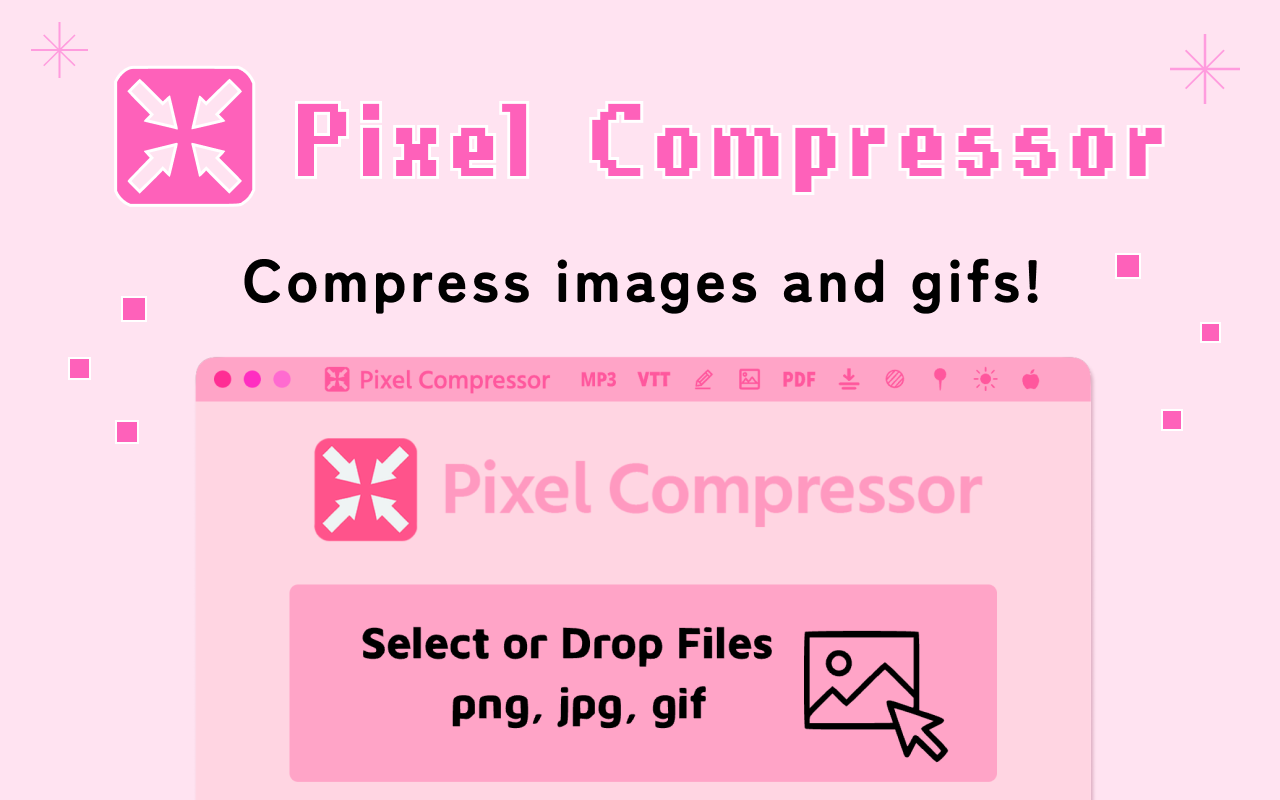
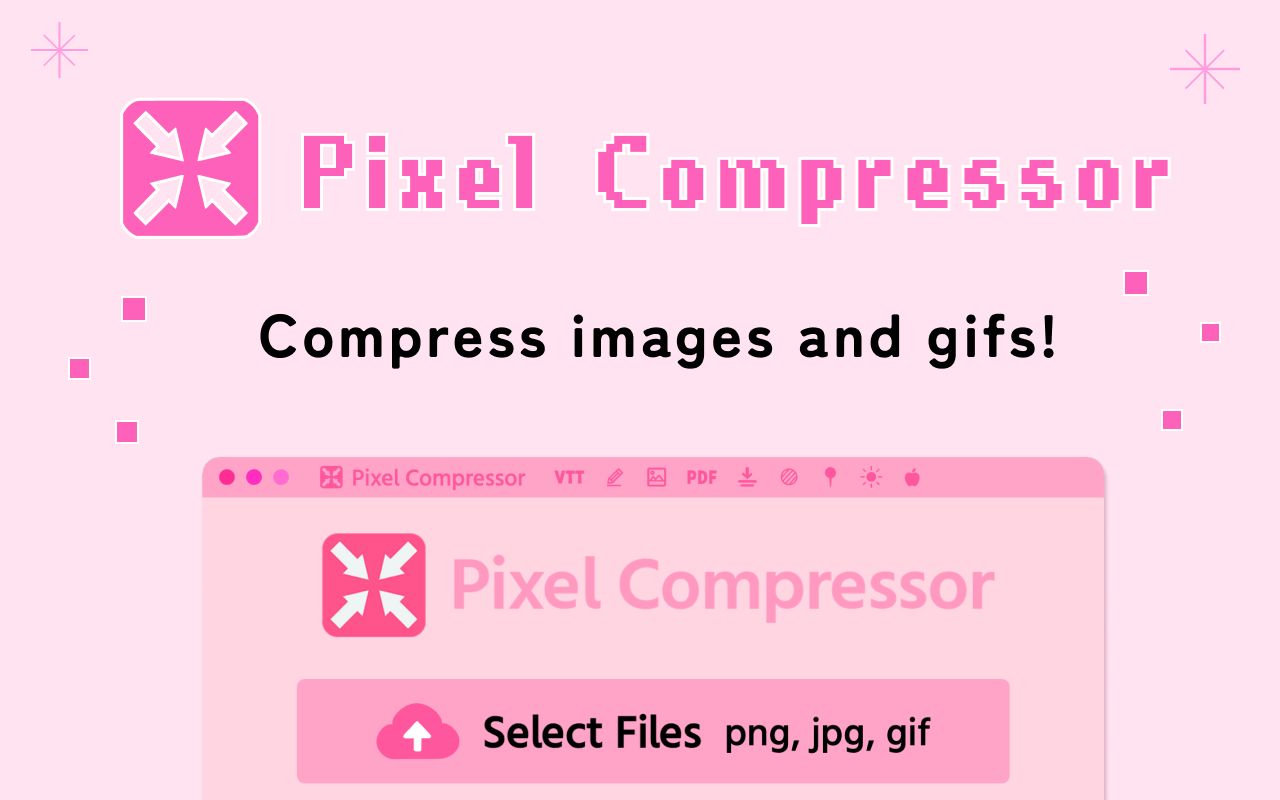
style adjustments

Changed region(s): [[0.0625, 0.0625, 0.9375, 0.5], [0.1562, 0.5312, 0.875, 0.9688], [0.8438, 0.3125, 0.9062, 0.375]]

diff --git a/components/FileSelector.tsx b/components/FileSelector.tsx
@@ -5,8 +5,7 @@
  * * * * * * * * * * * * * * * * * * * * * * * * * * * * * * */
 
 import React, {useEffect, useEffectEvent, useState} from "react"
-import FileSelectorIcon from "../assets/svg/file-selector.svg"
-import FileSelectorDragIcon from "../assets/svg/file-selector-drag.svg"
+import CloudIcon from "../assets/svg/cloud.svg"
 import functions from "../structures/functions"
 import "./styles/fileselector.less"
 
@@ -79,9 +78,9 @@ const FileSelector: React.FunctionComponent = (props) => {
     return (
         <section className="file-selector" onDrop={drop} onDragOver={dragOver} onDragLeave={dragLeave}>
             <div className="file-selector-img">
-                {drag ?
-                <FileSelectorDragIcon className="file-selector-img-text" style={{filter: hover ? "brightness(0) invert(1)" : ""}}/> :
-                <FileSelectorIcon className="file-selector-img-text" style={{filter: hover ? "brightness(0) invert(1)" : ""}}/>}
+                <CloudIcon className="file-selector-cloud"/>
+                <span className="file-selector-title" style={{color: hover || drag ? "white" : ""}}>Select Files</span>
+                <span className="file-selector-text" style={{color: hover || drag ? "white" : ""}}>png, jpg, gif</span>
             </div>
             <div className="file-selector-hover" onClick={upload} onMouseEnter={() => setHover(true)} onMouseLeave={() => setHover(false)}></div>
         </section>

diff --git a/components/styles/fileselector.less b/components/styles/fileselector.less
@@ -13,10 +13,21 @@
     justify-content: center;
     margin-bottom: 10px;
     width: 100%;
-    height: 22vw;
     &:focus {
         outline: none;
     }
+}
+
+.file-selector-hover {
+    margin: auto;
+    position: absolute;
+    z-index: 100;
+    top: 0; 
+    bottom: 0; 
+    left: 0; 
+    right: 0;
+    height: 95%;
+    width: 78%;
 }
 
 .file-selector-img {
@@ -29,25 +40,27 @@
     width: 79%;
     height: auto;
     border-radius: 7px;
+    gap: 20px;
+    padding: 20px;
 }
 
-.file-selector-img-text {
+.file-selector-cloud {
+    color: var(--iconColor);
+    width: auto;
+    height: 50px;
+}
+
+.file-selector-title {
     color: var(--textColor2);
-    transition: filter 0.3s;
-    position: absolute;
-    width: 100%;
-    height: auto;
-    z-index: 50;
+    font-family: "GenEi M Gothic v2";
+    font-weight: bold;
+    font-size: 35px;
+    transition: color 0.3s;
 }
 
-.file-selector-hover {
-    margin: auto;
-    position: absolute;
-    z-index: 100;
-    top: 0; 
-    bottom: 0; 
-    left: 0; 
-    right: 0;
-    height: 70%;
-    width: 65%;
+.file-selector-text {
+    color: var(--textColor2);
+    font-family: "GenEi M Gothic v2";
+    font-size: 30px;
+    transition: color 0.3s;
 }

diff --git a/components/OptionsBar.tsx b/components/OptionsBar.tsx
@@ -69,15 +69,15 @@ const OptionsBar: React.FunctionComponent = () => {
         <section className="options-bar-container">
             <div className="options-bar">
                 <div className="options-bar-row">
-                    <div className="options-bar-box">
+                    <div className="options-bar-box" style={{width: "92%"}}>
                         <p className="options-bar-text">Quality:</p>
                         <Slider className="options-slider" onChange={(value) => setQuality(value as number)} min={1} max={100} step={1} value={quality}/>
                         <p className="options-bar-text" style={{width: "50px"}}>{quality}%</p>
                     </div>
-                    <div className="options-bar-box">
+                    {/*<div className="options-bar-box">
                         <p className="options-bar-text">Ignore Under:</p>
                         <input className="options-bar-input wide" type="text" value={ignoreBelow} onChange={handleIgnoreBelow}/>
-                    </div>
+                    </div>*/}
                 </div>
                 <div className="options-bar-row">
                     <div className="options-bar-box">

diff --git a/components/FileContainer.tsx b/components/FileContainer.tsx
@@ -295,8 +295,8 @@ const FileContainer: React.FunctionComponent<FileContainerProps> = (props: FileC
                 <div className="file-group-top">
                     <div className="file-name">
                         <p className="file-text bigger"><span className="hover" onMouseDown={(event: any) => event.stopPropagation()} 
-                            onClick={() => openLocation(true)}>{output ? functions.cleanTitle(functions.basename(output)) : 
-                                functions.cleanTitle(functions.basename(props.source))}</span></p>
+                            onClick={() => openLocation(true)}>{output ? functions.cleanTitle(functions.basename(output, true)) : 
+                                functions.cleanTitle(functions.basename(props.source, true))}</span></p>
                         <p className="file-text bigger pink">{diffPercentage()}</p>
                     </div>
                     <div className="file-info">

diff --git a/structures/functions.ts b/structures/functions.ts
@@ -23,7 +23,7 @@ export default class Functions {
     public static cleanTitle = (str: string) => {
         const ext = str.split(".").pop() ?? ""
         const split = str.match(/.{1,30}/g)?.join(" ").replace(`.${ext}`, "")!
-        return `${split.slice(0, 70)}.${ext}`
+        return `${split.slice(0, 50)}.${ext}`
     }
 
     public static getType = (str: string) => {

diff --git a/components/styles/optionsbar.less b/components/styles/optionsbar.less
@@ -72,7 +72,7 @@
     margin-right: 10px;
     width: auto;
     height: 20px;
-    color: var(--checkboxColor);
+    color: var(--iconColor);
 }
 
 .btn {
@@ -134,7 +134,7 @@
 }
 
 .options-slider.rc-slider {
-    width: 200px;
+    width: 100%;
     border-radius: 0.2;
     align-items: center;
     margin-top: -3px;

diff --git a/components/styles/filecontainer.less b/components/styles/filecontainer.less
@@ -120,7 +120,7 @@
 }
 
 .file-text {
-    color: black;
+    color: var(--textColor2);
     font-family: "GenEi M Gothic v2", sans-serif;
     user-select: text;
     cursor: text;

diff --git a/components/styles/groupaction.less b/components/styles/groupaction.less
@@ -26,6 +26,7 @@
     font-family: "GenEi M Gothic v2";
     font-weight: bold;
     font-size: 20px;
+    transition: color 0.2s;
     &:hover {
         color: white;
     }

diff --git a/readme.md b/readme.md
@@ -7,7 +7,6 @@ A cute image compressor!
 ### Features:
 - Compress and resize images (JPG, PNG, WEBP, AVIF)
 - Compress and resize GIFs
-- Ignore images under a certain file size (to avoid over-compression)
 - Preview before and after images (right click on the thumbnails)
 - Delete duplicate images (found by perceptual hash)
 
@@ -24,8 +23,6 @@ These are all the special name replacements:
 
 ### Titlebar Buttons
 There are many utility functions on the titlebar. They do the following:
-
-MP3 - Select an mp3 and an image and the image will get added as the cover art.
 
 VTT - If ASS or SRT files are selected, they will be converted to VTT subtitles.
 
